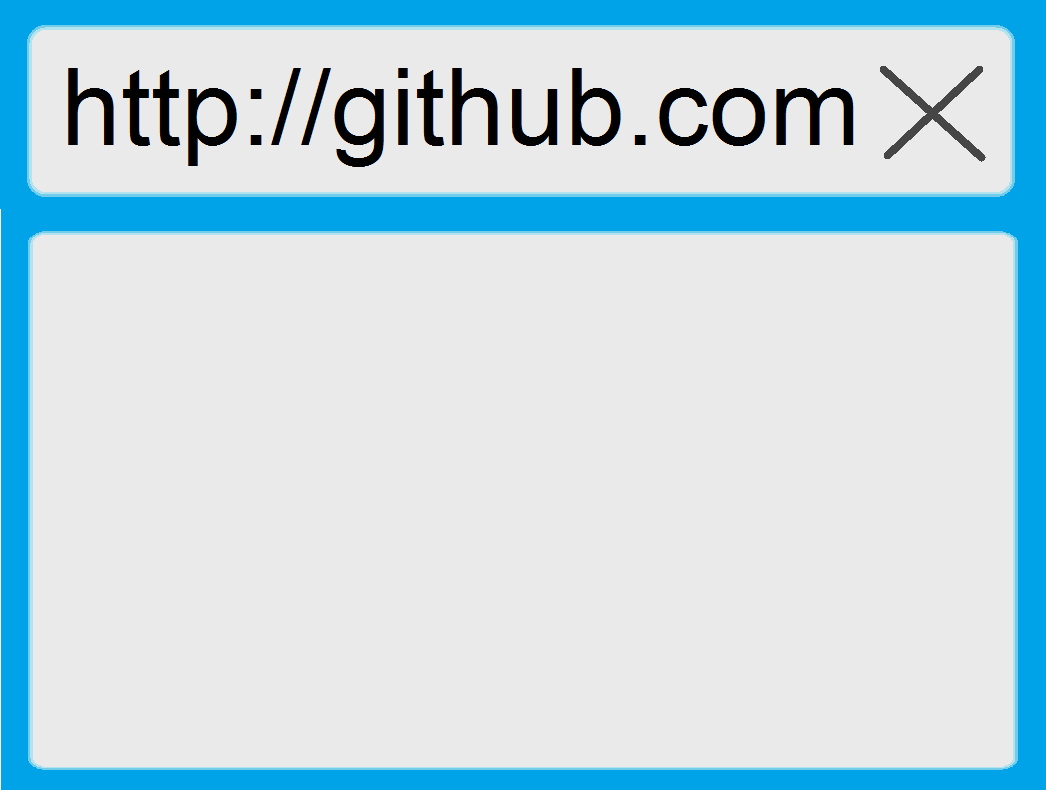
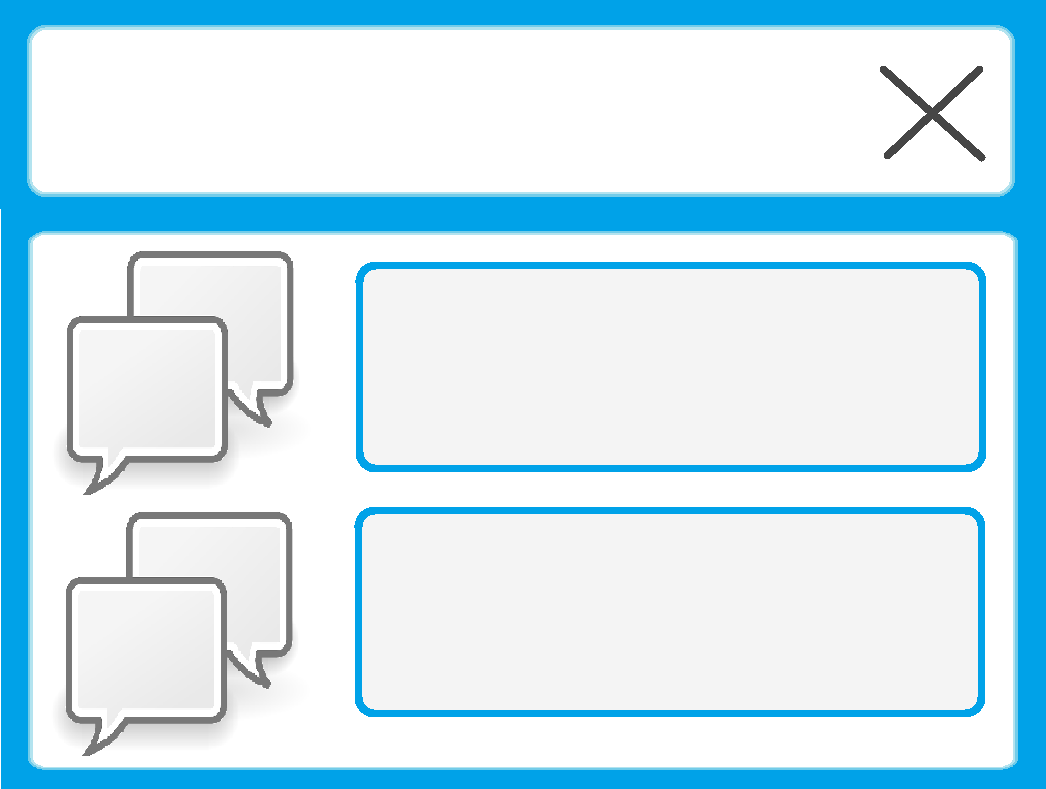
Text over browser image is a string in main

diff --git a/src/main/java/elegit/Main.java b/src/main/java/elegit/Main.java
@@ -3,6 +3,8 @@ package main.java.elegit;
 import javafx.application.Application;
 import javafx.fxml.FXMLLoader;
 import javafx.scene.*;
+import javafx.scene.text.Text;
+import javafx.scene.layout.StackPane;
 import javafx.scene.control.Menu;
 import javafx.scene.control.MenuBar;
 import javafx.scene.control.MenuItem;
@@ -58,6 +60,10 @@ public class Main extends Application {
         //sets the icon
         Image img = new Image("https://openmerchantaccount.com/img2/elegit_icon.png");
         primaryStage.getIcons().add(img);
+
+        //puts text over the browser image
+        Text txt = new Text(1075, 130, "HARDCODED");
+        root.getChildren().add(txt);
 
         primaryStage.setOnCloseRequest(event -> logger.info("Closed"));
 
